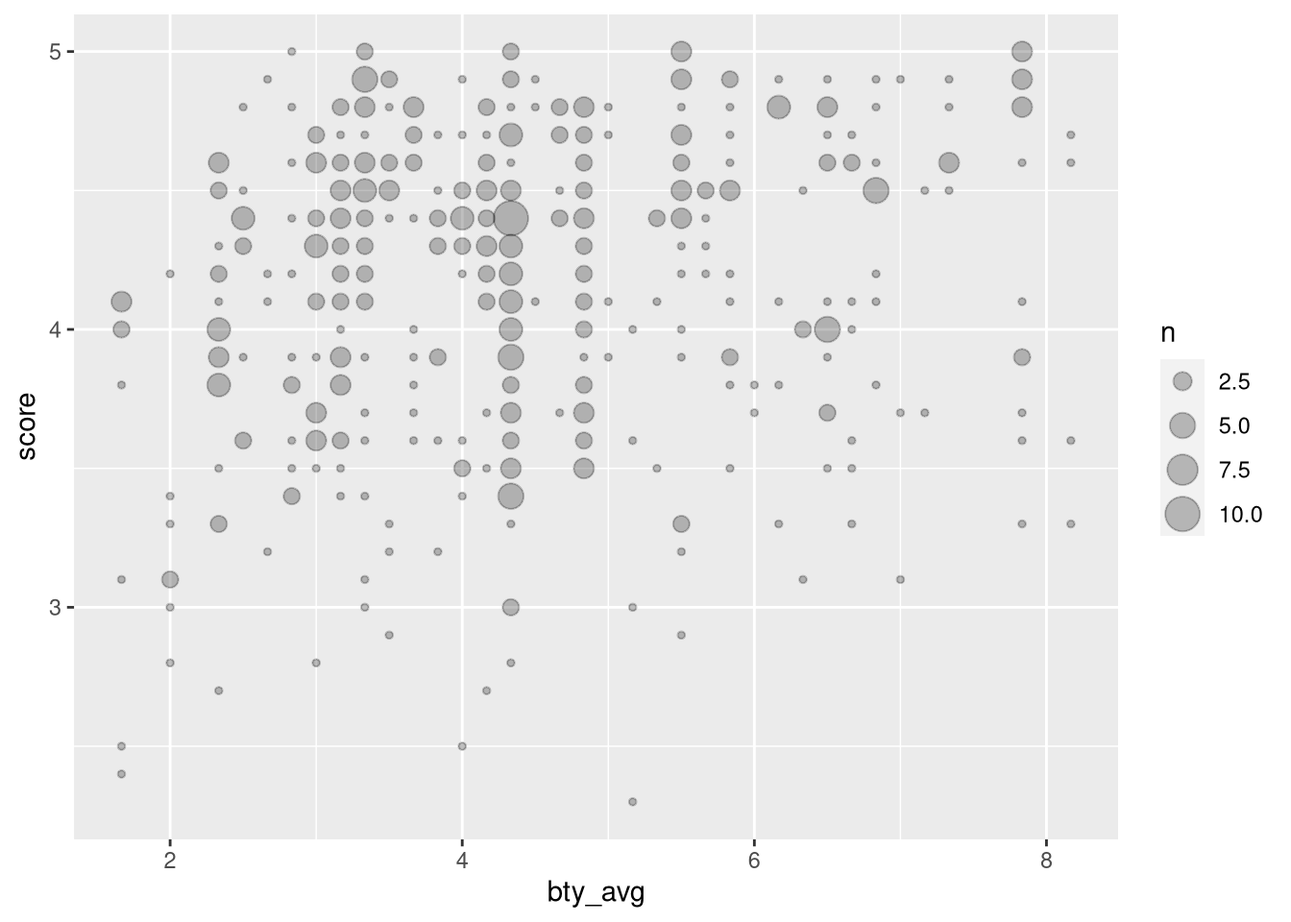
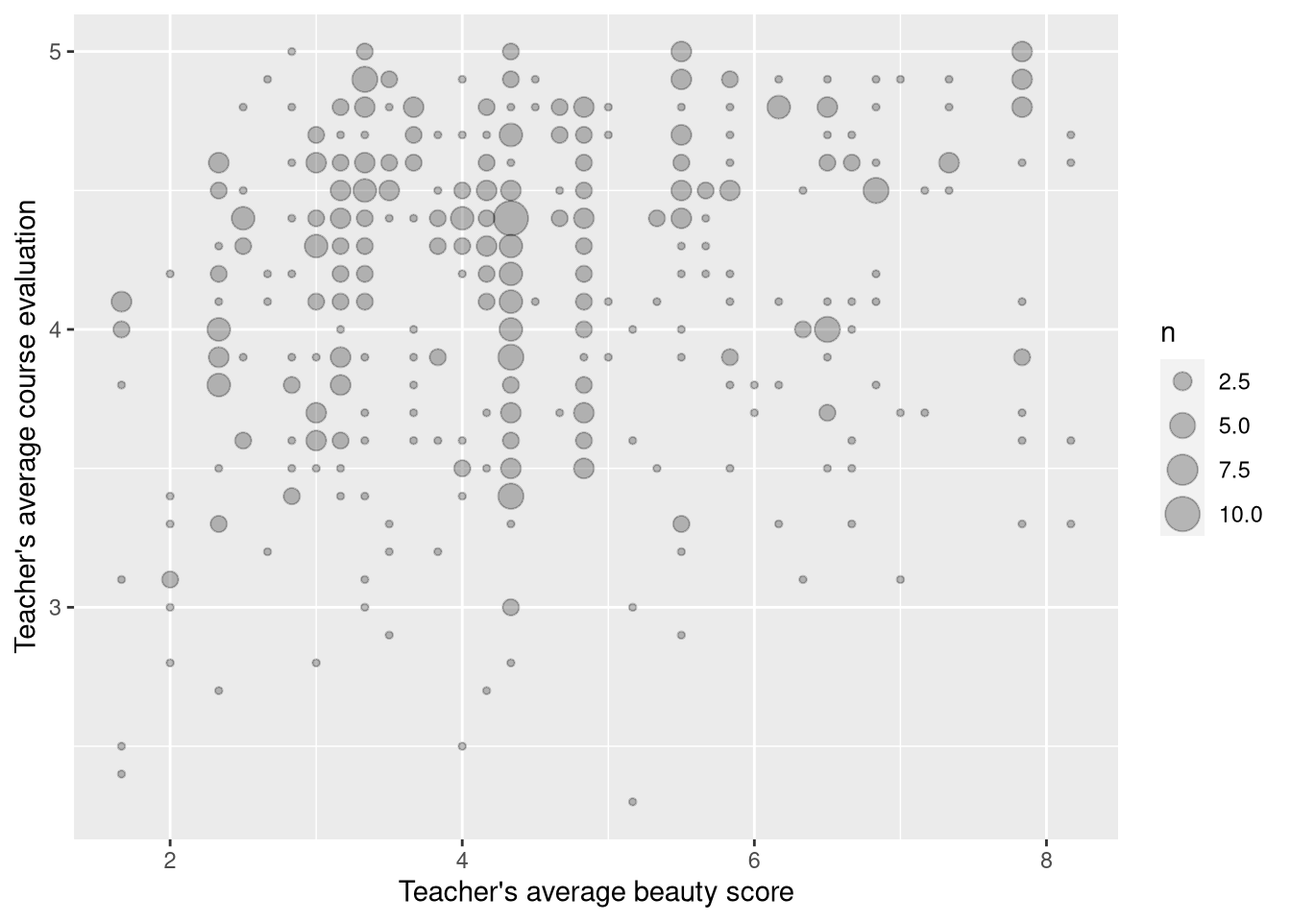
tweaks

Changed region(s): [[0.3125, 0.9375, 0.625, 1.0], [0.0, 0.2188, 0.0312, 0.7188]]

diff --git a/Quarto/Alpha5NG.html b/Quarto/Alpha5NG.html
@@ -6,8 +6,9 @@
 
 <meta name="viewport" content="width=device-width, initial-scale=1.0, user-scalable=yes">
 
+<meta name="author" content="Alan Arnholt">
 
-<title>5NG</title>
+<title>5NG - Five Named Graphs</title>
 <style>
 code{white-space: pre-wrap;}
 span.smallcaps{font-variant: small-caps;}
@@ -81,14 +82,26 @@ pre > code.sourceCode > span > a:first-child::before { text-decoration: underlin
 
 <header id="title-block-header" class="quarto-title-block default">
 <div class="quarto-title">
-<h1 class="title">5NG</h1>
+<h1 class="title">5NG - Five Named Graphs</h1>
 </div>
 
 
 
 <div class="quarto-title-meta">
 
+    <div>
+    <div class="quarto-title-meta-heading">Author</div>
+    <div class="quarto-title-meta-contents">
+             <p>Alan Arnholt </p>
+          </div>
+  </div>
     
+    <div>
+    <div class="quarto-title-meta-heading">Published</div>
+    <div class="quarto-title-meta-contents">
+      <p class="date">Last modified on August 26, 2024 12:39:45 Eastern Daylight Time</p>
+    </div>
+  </div>
   
     
   </div>
@@ -118,9 +131,11 @@ pre > code.sourceCode > span > a:first-child::before { text-decoration: underlin
 <h2 class="anchored" data-anchor-id="create-a-scatterplot-of-score-versus-bty_avg">Create a scatterplot of <code>score</code> versus <code>bty_avg</code></h2>
 <div class="cell">
 <details>
-<summary>Show the code</summary>
-<div class="sourceCode cell-code" id="cb3"><pre class="sourceCode r code-with-copy"><code class="sourceCode r"><span id="cb3-1"><a href="#cb3-1" aria-hidden="true" tabindex="-1"></a><span class="fu">ggplot</span>(<span class="at">data =</span> evals, <span class="fu">aes</span>(<span class="at">x =</span> bty_avg, <span class="at">y =</span> score)) <span class="ot">-&gt;</span> p1</span>
-<span id="cb3-2"><a href="#cb3-2" aria-hidden="true" tabindex="-1"></a>p1 <span class="sc">+</span> <span class="fu">geom_point</span>()</span></code><button title="Copy to Clipboard" class="code-copy-button"><i class="bi"></i></button></pre></div>
+<summary>I can’t wait to see the code</summary>
+<div class="sourceCode cell-code" id="cb3"><pre class="sourceCode r code-with-copy"><code class="sourceCode r"><span id="cb3-1"><a href="#cb3-1" aria-hidden="true" tabindex="-1"></a><span class="fu">ggplot</span>(<span class="at">data =</span> evals, <span class="fu">aes</span>(<span class="at">x =</span> bty_avg, <span class="at">y =</span> score)) <span class="sc">+</span> </span>
+<span id="cb3-2"><a href="#cb3-2" aria-hidden="true" tabindex="-1"></a>  <span class="fu">labs</span>(<span class="at">x =</span> <span class="st">"Teacher's average beauty score"</span>, </span>
+<span id="cb3-3"><a href="#cb3-3" aria-hidden="true" tabindex="-1"></a>       <span class="at">y =</span> <span class="st">"Teacher's average course evaluation"</span>) <span class="ot">-&gt;</span> p1</span>
+<span id="cb3-4"><a href="#cb3-4" aria-hidden="true" tabindex="-1"></a>p1 <span class="sc">+</span><span class="fu">geom_point</span>() </span></code><button title="Copy to Clipboard" class="code-copy-button"><i class="bi"></i></button></pre></div>
 </details>
 <div class="cell-output-display">
 <p><img src="Alpha5NG_files/figure-html/unnamed-chunk-3-1.png" class="img-fluid" width="672"></p>
@@ -185,30 +200,21 @@ pre > code.sourceCode > span > a:first-child::before { text-decoration: underlin
 </div>
 <div class="cell">
 <details>
-<summary>Show the code</summary>
+<summary>Code</summary>
 <div class="sourceCode cell-code" id="cb11"><pre class="sourceCode r code-with-copy"><code class="sourceCode r"><span id="cb11-1"><a href="#cb11-1" aria-hidden="true" tabindex="-1"></a>p1 <span class="sc">+</span> </span>
 <span id="cb11-2"><a href="#cb11-2" aria-hidden="true" tabindex="-1"></a>  <span class="fu">geom_count</span>(<span class="at">alpha =</span> <span class="fl">0.25</span>, <span class="fu">aes</span>(<span class="at">color =</span> gender)) <span class="sc">+</span> </span>
 <span id="cb11-3"><a href="#cb11-3" aria-hidden="true" tabindex="-1"></a>  <span class="fu">scale_size</span>(<span class="at">range =</span> <span class="fu">c</span>(<span class="dv">1</span>, <span class="dv">10</span>)) <span class="sc">+</span></span>
 <span id="cb11-4"><a href="#cb11-4" aria-hidden="true" tabindex="-1"></a>  <span class="fu">geom_smooth</span>(<span class="fu">aes</span>(<span class="at">color =</span> gender), <span class="at">method =</span> <span class="st">"loess"</span>, <span class="at">se =</span> <span class="cn">FALSE</span>) <span class="sc">+</span> </span>
-<span id="cb11-5"><a href="#cb11-5" aria-hidden="true" tabindex="-1"></a>  <span class="fu">labs</span>(<span class="at">color =</span> <span class="st">"Sex"</span>)</span></code><button title="Copy to Clipboard" class="code-copy-button"><i class="bi"></i></button></pre></div>
+<span id="cb11-5"><a href="#cb11-5" aria-hidden="true" tabindex="-1"></a>  <span class="fu">labs</span>(<span class="at">color =</span> <span class="st">"Sex"</span>) <span class="sc">+</span> </span>
+<span id="cb11-6"><a href="#cb11-6" aria-hidden="true" tabindex="-1"></a>  <span class="fu">scale_color_manual</span>(<span class="at">values =</span> <span class="fu">c</span>(<span class="st">"female"</span> <span class="ot">=</span> <span class="st">"pink"</span>, <span class="st">"male"</span> <span class="ot">=</span> <span class="st">"darkblue"</span>)) <span class="sc">+</span> </span>
+<span id="cb11-7"><a href="#cb11-7" aria-hidden="true" tabindex="-1"></a>  <span class="fu">theme_classic</span>()</span></code><button title="Copy to Clipboard" class="code-copy-button"><i class="bi"></i></button></pre></div>
 </details>
-<div class="cell-output cell-output-stderr">
-<pre><code>`geom_smooth()` using formula = 'y ~ x'</code></pre>
-</div>
 <div class="cell-output-display">
 <p><img src="Alpha5NG_files/figure-html/unnamed-chunk-5-1.png" class="img-fluid" width="672"></p>
 </div>
 </div>
-</section>
-<section id="linegraphs-via-geom_line" class="level2">
-<h2 class="anchored" data-anchor-id="linegraphs-via-geom_line">Linegraphs via <code>geom_line()</code></h2>
 <p>Consider the <code>early_january_weather</code> from the <code>moderndive</code> package.</p>
 <div class="cell">
-<details>
-<summary>Show the code that created that awesome table!</summary>
-<div class="sourceCode cell-code" id="cb13"><pre class="sourceCode r code-with-copy"><code class="sourceCode r"><span id="cb13-1"><a href="#cb13-1" aria-hidden="true" tabindex="-1"></a><span class="fu">library</span>(moderndive)</span>
-<span id="cb13-2"><a href="#cb13-2" aria-hidden="true" tabindex="-1"></a>knitr<span class="sc">::</span><span class="fu">kable</span>(<span class="fu">head</span>(early_january_weather))</span></code><button title="Copy to Clipboard" class="code-copy-button"><i class="bi"></i></button></pre></div>
-</details>
 <div class="cell-output-display">
 <table class="table table-sm table-striped small">
 <colgroup>
@@ -354,12 +360,17 @@ pre > code.sourceCode > span > a:first-child::before { text-decoration: underlin
 </table>
 </div>
 </div>
+</section>
+<section id="linegraphs-via-geom_line" class="level2">
+<h2 class="anchored" data-anchor-id="linegraphs-via-geom_line">Linegraphs via <code>geom_line()</code></h2>
 <div class="cell">
 <details>
-<summary>Show the code</summary>
-<div class="sourceCode cell-code" id="cb14"><pre class="sourceCode r code-with-copy"><code class="sourceCode r"><span id="cb14-1"><a href="#cb14-1" aria-hidden="true" tabindex="-1"></a><span class="fu">ggplot</span>(<span class="at">data =</span> early_january_weather, <span class="fu">aes</span>(<span class="at">x =</span> time_hour, <span class="at">y =</span> temp)) <span class="sc">+</span> </span>
-<span id="cb14-2"><a href="#cb14-2" aria-hidden="true" tabindex="-1"></a>  <span class="fu">geom_point</span>(<span class="at">size =</span> <span class="fl">0.2</span>, <span class="at">color =</span> <span class="st">"blue"</span>) <span class="sc">+</span> </span>
-<span id="cb14-3"><a href="#cb14-3" aria-hidden="true" tabindex="-1"></a>  <span class="fu">geom_line</span>(<span class="at">color =</span> <span class="st">"pink"</span>)</span></code><button title="Copy to Clipboard" class="code-copy-button"><i class="bi"></i></button></pre></div>
+<summary>Code</summary>
+<div class="sourceCode cell-code" id="cb12"><pre class="sourceCode r code-with-copy"><code class="sourceCode r"><span id="cb12-1"><a href="#cb12-1" aria-hidden="true" tabindex="-1"></a><span class="fu">ggplot</span>(<span class="at">data =</span> early_january_weather, <span class="fu">aes</span>(<span class="at">x =</span> time_hour, <span class="at">y =</span> temp)) <span class="sc">+</span> </span>
+<span id="cb12-2"><a href="#cb12-2" aria-hidden="true" tabindex="-1"></a>  <span class="fu">geom_point</span>(<span class="at">size =</span> <span class="fl">0.2</span>, <span class="at">color =</span> <span class="st">"blue"</span>) <span class="sc">+</span> </span>
+<span id="cb12-3"><a href="#cb12-3" aria-hidden="true" tabindex="-1"></a>  <span class="fu">geom_line</span>(<span class="at">color =</span> <span class="st">"pink"</span>) <span class="sc">+</span> </span>
+<span id="cb12-4"><a href="#cb12-4" aria-hidden="true" tabindex="-1"></a>  <span class="fu">labs</span>(<span class="at">x =</span> <span class="st">"Date and time"</span>,</span>
+<span id="cb12-5"><a href="#cb12-5" aria-hidden="true" tabindex="-1"></a>       <span class="at">y =</span> <span class="st">"Temperature (in Fahrenheit)"</span>)</span></code><button title="Copy to Clipboard" class="code-copy-button"><i class="bi"></i></button></pre></div>
 </details>
 <div class="cell-output-display">
 <p><img src="Alpha5NG_files/figure-html/unnamed-chunk-7-1.png" class="img-fluid" width="672"></p>
@@ -370,60 +381,50 @@ pre > code.sourceCode > span > a:first-child::before { text-decoration: underlin
 <h2 class="anchored" data-anchor-id="histograms-via-geom_histogram">Histograms via <code>geom_histogram()</code></h2>
 <div class="cell">
 <details>
-<summary>Show the code</summary>
-<div class="sourceCode cell-code" id="cb15"><pre class="sourceCode r code-with-copy"><code class="sourceCode r"><span id="cb15-1"><a href="#cb15-1" aria-hidden="true" tabindex="-1"></a><span class="fu">library</span>(palmerpenguins)</span>
-<span id="cb15-2"><a href="#cb15-2" aria-hidden="true" tabindex="-1"></a>penguins <span class="sc">|&gt;</span> </span>
-<span id="cb15-3"><a href="#cb15-3" aria-hidden="true" tabindex="-1"></a>  <span class="fu">ggplot</span>(<span class="fu">aes</span>(<span class="at">x =</span> bill_length_mm)) <span class="sc">+</span> </span>
-<span id="cb15-4"><a href="#cb15-4" aria-hidden="true" tabindex="-1"></a>  <span class="fu">geom_histogram</span>()</span></code><button title="Copy to Clipboard" class="code-copy-button"><i class="bi"></i></button></pre></div>
+<summary>Code</summary>
+<div class="sourceCode cell-code" id="cb13"><pre class="sourceCode r code-with-copy"><code class="sourceCode r"><span id="cb13-1"><a href="#cb13-1" aria-hidden="true" tabindex="-1"></a><span class="fu">library</span>(palmerpenguins)</span>
+<span id="cb13-2"><a href="#cb13-2" aria-hidden="true" tabindex="-1"></a>penguins <span class="sc">|&gt;</span> </span>
+<span id="cb13-3"><a href="#cb13-3" aria-hidden="true" tabindex="-1"></a>  <span class="fu">ggplot</span>(<span class="fu">aes</span>(<span class="at">x =</span> bill_length_mm)) <span class="sc">+</span> </span>
+<span id="cb13-4"><a href="#cb13-4" aria-hidden="true" tabindex="-1"></a>  <span class="fu">geom_histogram</span>() <span class="sc">+</span> </span>
+<span id="cb13-5"><a href="#cb13-5" aria-hidden="true" tabindex="-1"></a>  <span class="fu">labs</span>(<span class="at">x =</span> <span class="st">"Penguin bill length (in mm)"</span>)</span></code><button title="Copy to Clipboard" class="code-copy-button"><i class="bi"></i></button></pre></div>
 </details>
-<div class="cell-output cell-output-stderr">
-<pre><code>`stat_bin()` using `bins = 30`. Pick better value with `binwidth`.</code></pre>
-</div>
-<div class="cell-output cell-output-stderr">
-<pre><code>Warning: Removed 2 rows containing non-finite values (`stat_bin()`).</code></pre>
-</div>
 <div class="cell-output-display">
 <p><img src="Alpha5NG_files/figure-html/unnamed-chunk-8-1.png" class="img-fluid" width="672"></p>
 </div>
 </div>
 <div class="cell">
 <details>
-<summary>Show the code</summary>
-<div class="sourceCode cell-code" id="cb18"><pre class="sourceCode r code-with-copy"><code class="sourceCode r"><span id="cb18-1"><a href="#cb18-1" aria-hidden="true" tabindex="-1"></a>penguins <span class="sc">|&gt;</span> </span>
-<span id="cb18-2"><a href="#cb18-2" aria-hidden="true" tabindex="-1"></a>  <span class="fu">ggplot</span>(<span class="fu">aes</span>(<span class="at">x =</span> bill_length_mm)) <span class="sc">+</span> </span>
-<span id="cb18-3"><a href="#cb18-3" aria-hidden="true" tabindex="-1"></a>  <span class="fu">geom_histogram</span>(<span class="at">binwidth =</span> <span class="dv">3</span>, <span class="at">color =</span> <span class="st">"black"</span>, <span class="at">fill =</span> <span class="st">"lightblue"</span>)</span></code><button title="Copy to Clipboard" class="code-copy-button"><i class="bi"></i></button></pre></div>
+<summary>Code</summary>
+<div class="sourceCode cell-code" id="cb14"><pre class="sourceCode r code-with-copy"><code class="sourceCode r"><span id="cb14-1"><a href="#cb14-1" aria-hidden="true" tabindex="-1"></a>penguins <span class="sc">|&gt;</span> </span>
+<span id="cb14-2"><a href="#cb14-2" aria-hidden="true" tabindex="-1"></a>  <span class="fu">ggplot</span>(<span class="fu">aes</span>(<span class="at">x =</span> bill_length_mm)) <span class="sc">+</span> </span>
+<span id="cb14-3"><a href="#cb14-3" aria-hidden="true" tabindex="-1"></a>  <span class="fu">geom_histogram</span>(<span class="at">binwidth =</span> <span class="dv">3</span>, <span class="at">color =</span> <span class="st">"black"</span>, <span class="at">fill =</span> <span class="st">"lightblue"</span>) <span class="sc">+</span> </span>
+<span id="cb14-4"><a href="#cb14-4" aria-hidden="true" tabindex="-1"></a>  <span class="fu">labs</span>(<span class="at">x =</span> <span class="st">"Penguin bill length (in mm)"</span>)</span></code><button title="Copy to Clipboard" class="code-copy-button"><i class="bi"></i></button></pre></div>
 </details>
-<div class="cell-output cell-output-stderr">
-<pre><code>Warning: Removed 2 rows containing non-finite values (`stat_bin()`).</code></pre>
-</div>
 <div class="cell-output-display">
 <p><img src="Alpha5NG_files/figure-html/unnamed-chunk-9-1.png" class="img-fluid" width="672"></p>
 </div>
 <details>
-<summary>Show the code</summary>
-<div class="sourceCode cell-code" id="cb20"><pre class="sourceCode r code-with-copy"><code class="sourceCode r"><span id="cb20-1"><a href="#cb20-1" aria-hidden="true" tabindex="-1"></a>penguins <span class="sc">|&gt;</span> </span>
-<span id="cb20-2"><a href="#cb20-2" aria-hidden="true" tabindex="-1"></a>  <span class="fu">ggplot</span>(<span class="fu">aes</span>(<span class="at">x =</span> bill_length_mm, <span class="at">fill =</span> species)) <span class="sc">+</span> </span>
-<span id="cb20-3"><a href="#cb20-3" aria-hidden="true" tabindex="-1"></a>  <span class="fu">geom_histogram</span>(<span class="at">binwidth =</span> <span class="dv">3</span>)</span></code><button title="Copy to Clipboard" class="code-copy-button"><i class="bi"></i></button></pre></div>
+<summary>Code</summary>
+<div class="sourceCode cell-code" id="cb15"><pre class="sourceCode r code-with-copy"><code class="sourceCode r"><span id="cb15-1"><a href="#cb15-1" aria-hidden="true" tabindex="-1"></a>penguins <span class="sc">|&gt;</span> </span>
+<span id="cb15-2"><a href="#cb15-2" aria-hidden="true" tabindex="-1"></a>  <span class="fu">ggplot</span>(<span class="fu">aes</span>(<span class="at">x =</span> bill_length_mm, <span class="at">fill =</span> species)) <span class="sc">+</span> </span>
+<span id="cb15-3"><a href="#cb15-3" aria-hidden="true" tabindex="-1"></a>  <span class="fu">geom_histogram</span>(<span class="at">binwidth =</span> <span class="dv">3</span>) <span class="sc">+</span></span>
+<span id="cb15-4"><a href="#cb15-4" aria-hidden="true" tabindex="-1"></a>  <span class="fu">labs</span>(<span class="at">x =</span> <span class="st">"Penguin bill length (in mm)"</span>)</span></code><button title="Copy to Clipboard" class="code-copy-button"><i class="bi"></i></button></pre></div>
 </details>
-<div class="cell-output cell-output-stderr">
-<pre><code>Warning: Removed 2 rows containing non-finite values (`stat_bin()`).</code></pre>
-</div>
 <div class="cell-output-display">
 <p><img src="Alpha5NG_files/figure-html/unnamed-chunk-9-2.png" class="img-fluid" width="672"></p>
 </div>
 </div>
 <div class="cell">
 <details>
-<summary>Show the code</summary>
-<div class="sourceCode cell-code" id="cb22"><pre class="sourceCode r code-with-copy"><code class="sourceCode r"><span id="cb22-1"><a href="#cb22-1" aria-hidden="true" tabindex="-1"></a>penguins <span class="sc">|&gt;</span> </span>
-<span id="cb22-2"><a href="#cb22-2" aria-hidden="true" tabindex="-1"></a>  <span class="fu">ggplot</span>(<span class="fu">aes</span>(<span class="at">x =</span> bill_length_mm, <span class="at">fill =</span> species)) <span class="sc">+</span> </span>
-<span id="cb22-3"><a href="#cb22-3" aria-hidden="true" tabindex="-1"></a>  <span class="fu">geom_histogram</span>(<span class="at">binwidth =</span> <span class="dv">3</span>, <span class="at">color =</span> <span class="st">"black"</span>) <span class="sc">+</span></span>
-<span id="cb22-4"><a href="#cb22-4" aria-hidden="true" tabindex="-1"></a>  <span class="fu">facet_wrap</span>(<span class="fu">vars</span>(species), <span class="at">ncol =</span> <span class="dv">1</span>) <span class="sc">+</span> </span>
-<span id="cb22-5"><a href="#cb22-5" aria-hidden="true" tabindex="-1"></a>  <span class="fu">theme_bw</span>()</span></code><button title="Copy to Clipboard" class="code-copy-button"><i class="bi"></i></button></pre></div>
+<summary>Code</summary>
+<div class="sourceCode cell-code" id="cb16"><pre class="sourceCode r code-with-copy"><code class="sourceCode r"><span id="cb16-1"><a href="#cb16-1" aria-hidden="true" tabindex="-1"></a>penguins <span class="sc">|&gt;</span> </span>
+<span id="cb16-2"><a href="#cb16-2" aria-hidden="true" tabindex="-1"></a>  <span class="fu">ggplot</span>(<span class="fu">aes</span>(<span class="at">x =</span> bill_length_mm, <span class="at">fill =</span> species)) <span class="sc">+</span> </span>
+<span id="cb16-3"><a href="#cb16-3" aria-hidden="true" tabindex="-1"></a>  <span class="fu">geom_histogram</span>(<span class="at">binwidth =</span> <span class="dv">3</span>, <span class="at">color =</span> <span class="st">"black"</span>) <span class="sc">+</span></span>
+<span id="cb16-4"><a href="#cb16-4" aria-hidden="true" tabindex="-1"></a>  <span class="fu">facet_wrap</span>(<span class="fu">vars</span>(species), <span class="at">ncol =</span> <span class="dv">1</span>) <span class="sc">+</span> </span>
+<span id="cb16-5"><a href="#cb16-5" aria-hidden="true" tabindex="-1"></a>  <span class="fu">theme_bw</span>() <span class="sc">+</span> </span>
+<span id="cb16-6"><a href="#cb16-6" aria-hidden="true" tabindex="-1"></a>  <span class="fu">labs</span>(<span class="at">x =</span> <span class="st">"Penguin bill length (in mm)"</span>,</span>
+<span id="cb16-7"><a href="#cb16-7" aria-hidden="true" tabindex="-1"></a>       <span class="at">fill =</span> <span class="st">"Species"</span>)</span></code><button title="Copy to Clipboard" class="code-copy-button"><i class="bi"></i></button></pre></div>
 </details>
-<div class="cell-output cell-output-stderr">
-<pre><code>Warning: Removed 2 rows containing non-finite values (`stat_bin()`).</code></pre>
-</div>
 <div class="cell-output-display">
 <p><img src="Alpha5NG_files/figure-html/unnamed-chunk-10-1.png" class="img-fluid" width="672"></p>
 </div>
@@ -433,28 +434,25 @@ pre > code.sourceCode > span > a:first-child::before { text-decoration: underlin
 <h2 class="anchored" data-anchor-id="boxplots-via-geom_boxplot">Boxplots via <code>geom_boxplot()</code></h2>
 <div class="cell">
 <details>
-<summary>Show the code</summary>
-<div class="sourceCode cell-code" id="cb24"><pre class="sourceCode r code-with-copy"><code class="sourceCode r"><span id="cb24-1"><a href="#cb24-1" aria-hidden="true" tabindex="-1"></a>penguins <span class="sc">|&gt;</span> </span>
-<span id="cb24-2"><a href="#cb24-2" aria-hidden="true" tabindex="-1"></a>  <span class="fu">ggplot</span>(<span class="fu">aes</span>(<span class="at">x =</span> species, <span class="at">y =</span> bill_length_mm, <span class="at">fill =</span> species)) <span class="sc">+</span> </span>
-<span id="cb24-3"><a href="#cb24-3" aria-hidden="true" tabindex="-1"></a>  <span class="fu">geom_boxplot</span>()</span></code><button title="Copy to Clipboard" class="code-copy-button"><i class="bi"></i></button></pre></div>
+<summary>Code</summary>
+<div class="sourceCode cell-code" id="cb17"><pre class="sourceCode r code-with-copy"><code class="sourceCode r"><span id="cb17-1"><a href="#cb17-1" aria-hidden="true" tabindex="-1"></a>penguins <span class="sc">|&gt;</span> </span>
+<span id="cb17-2"><a href="#cb17-2" aria-hidden="true" tabindex="-1"></a>  <span class="fu">ggplot</span>(<span class="fu">aes</span>(<span class="at">x =</span> species, <span class="at">y =</span> bill_length_mm, <span class="at">fill =</span> species)) <span class="sc">+</span> </span>
+<span id="cb17-3"><a href="#cb17-3" aria-hidden="true" tabindex="-1"></a>  <span class="fu">geom_boxplot</span>() <span class="sc">+</span> </span>
+<span id="cb17-4"><a href="#cb17-4" aria-hidden="true" tabindex="-1"></a>  <span class="fu">labs</span>(<span class="at">y =</span> <span class="st">"Penguin bill length (in mm)"</span>)</span></code><button title="Copy to Clipboard" class="code-copy-button"><i class="bi"></i></button></pre></div>
 </details>
-<div class="cell-output cell-output-stderr">
-<pre><code>Warning: Removed 2 rows containing non-finite values (`stat_boxplot()`).</code></pre>
-</div>
 <div class="cell-output-display">
 <p><img src="Alpha5NG_files/figure-html/unnamed-chunk-11-1.png" class="img-fluid" width="672"></p>
 </div>
 <details>
-<summary>Show the code</summary>
-<div class="sourceCode cell-code" id="cb26"><pre class="sourceCode r code-with-copy"><code class="sourceCode r"><span id="cb26-1"><a href="#cb26-1" aria-hidden="true" tabindex="-1"></a><span class="co"># Note that the legend is not needed</span></span>
-<span id="cb26-2"><a href="#cb26-2" aria-hidden="true" tabindex="-1"></a>penguins <span class="sc">|&gt;</span> </span>
-<span id="cb26-3"><a href="#cb26-3" aria-hidden="true" tabindex="-1"></a>  <span class="fu">ggplot</span>(<span class="fu">aes</span>(<span class="at">x =</span> species, <span class="at">y =</span> bill_length_mm, <span class="at">fill =</span> species)) <span class="sc">+</span> </span>
-<span id="cb26-4"><a href="#cb26-4" aria-hidden="true" tabindex="-1"></a>  <span class="fu">geom_boxplot</span>() <span class="sc">+</span> </span>
-<span id="cb26-5"><a href="#cb26-5" aria-hidden="true" tabindex="-1"></a>  <span class="fu">guides</span>(<span class="at">fill =</span> <span class="st">"none"</span>)</span></code><button title="Copy to Clipboard" class="code-copy-button"><i class="bi"></i></button></pre></div>
+<summary>Code</summary>
+<div class="sourceCode cell-code" id="cb18"><pre class="sourceCode r code-with-copy"><code class="sourceCode r"><span id="cb18-1"><a href="#cb18-1" aria-hidden="true" tabindex="-1"></a><span class="co"># Note that the legend is not needed</span></span>
+<span id="cb18-2"><a href="#cb18-2" aria-hidden="true" tabindex="-1"></a>penguins <span class="sc">|&gt;</span> </span>
+<span id="cb18-3"><a href="#cb18-3" aria-hidden="true" tabindex="-1"></a>  <span class="fu">ggplot</span>(<span class="fu">aes</span>(<span class="at">x =</span> species, <span class="at">y =</span> bill_length_mm, <span class="at">fill =</span> species)) <span class="sc">+</span> </span>
+<span id="cb18-4"><a href="#cb18-4" aria-hidden="true" tabindex="-1"></a>  <span class="fu">geom_boxplot</span>() <span class="sc">+</span> </span>
+<span id="cb18-5"><a href="#cb18-5" aria-hidden="true" tabindex="-1"></a>  <span class="fu">guides</span>(<span class="at">fill =</span> <span class="st">"none"</span>) <span class="sc">+</span> </span>
+<span id="cb18-6"><a href="#cb18-6" aria-hidden="true" tabindex="-1"></a>  <span class="fu">labs</span>(<span class="at">y =</span> <span class="st">"Penguin bill length (in mm)"</span>,</span>
+<span id="cb18-7"><a href="#cb18-7" aria-hidden="true" tabindex="-1"></a>       <span class="at">x =</span> <span class="st">""</span>)</span></code><button title="Copy to Clipboard" class="code-copy-button"><i class="bi"></i></button></pre></div>
 </details>
-<div class="cell-output cell-output-stderr">
-<pre><code>Warning: Removed 2 rows containing non-finite values (`stat_boxplot()`).</code></pre>
-</div>
 <div class="cell-output-display">
 <p><img src="Alpha5NG_files/figure-html/unnamed-chunk-11-2.png" class="img-fluid" width="672"></p>
 </div>
@@ -467,21 +465,23 @@ pre > code.sourceCode > span > a:first-child::before { text-decoration: underlin
 </ul>
 <div class="cell">
 <details>
-<summary>Show the code</summary>
-<div class="sourceCode cell-code" id="cb28"><pre class="sourceCode r code-with-copy"><code class="sourceCode r"><span id="cb28-1"><a href="#cb28-1" aria-hidden="true" tabindex="-1"></a>penguins <span class="sc">|&gt;</span> </span>
-<span id="cb28-2"><a href="#cb28-2" aria-hidden="true" tabindex="-1"></a>  <span class="fu">ggplot</span>(<span class="fu">aes</span>(<span class="at">x =</span> species)) <span class="sc">+</span></span>
-<span id="cb28-3"><a href="#cb28-3" aria-hidden="true" tabindex="-1"></a>  <span class="fu">geom_bar</span>()</span></code><button title="Copy to Clipboard" class="code-copy-button"><i class="bi"></i></button></pre></div>
+<summary>Code</summary>
+<div class="sourceCode cell-code" id="cb19"><pre class="sourceCode r code-with-copy"><code class="sourceCode r"><span id="cb19-1"><a href="#cb19-1" aria-hidden="true" tabindex="-1"></a>penguins <span class="sc">|&gt;</span> </span>
+<span id="cb19-2"><a href="#cb19-2" aria-hidden="true" tabindex="-1"></a>  <span class="fu">ggplot</span>(<span class="fu">aes</span>(<span class="at">x =</span> species)) <span class="sc">+</span></span>
+<span id="cb19-3"><a href="#cb19-3" aria-hidden="true" tabindex="-1"></a>  <span class="fu">geom_bar</span>() <span class="sc">+</span> </span>
+<span id="cb19-4"><a href="#cb19-4" aria-hidden="true" tabindex="-1"></a>  <span class="fu">labs</span>(<span class="at">x =</span> <span class="st">""</span>)</span></code><button title="Copy to Clipboard" class="code-copy-button"><i class="bi"></i></button></pre></div>
 </details>
 <div class="cell-output-display">
 <p><img src="Alpha5NG_files/figure-html/unnamed-chunk-12-1.png" class="img-fluid" width="672"></p>
 </div>
 <details>
-<summary>Show the code</summary>
-<div class="sourceCode cell-code" id="cb29"><pre class="sourceCode r code-with-copy"><code class="sourceCode r"><span id="cb29-1"><a href="#cb29-1" aria-hidden="true" tabindex="-1"></a><span class="co">#</span></span>
-<span id="cb29-2"><a href="#cb29-2" aria-hidden="true" tabindex="-1"></a>penguins <span class="sc">|&gt;</span> </span>
-<span id="cb29-3"><a href="#cb29-3" aria-hidden="true" tabindex="-1"></a>  <span class="fu">ggplot</span>(<span class="fu">aes</span>(<span class="at">x =</span> species, <span class="at">fill =</span> species)) <span class="sc">+</span></span>
-<span id="cb29-4"><a href="#cb29-4" aria-hidden="true" tabindex="-1"></a>  <span class="fu">geom_bar</span>() <span class="sc">+</span> </span>
-<span id="cb29-5"><a href="#cb29-5" aria-hidden="true" tabindex="-1"></a>  <span class="fu">guides</span>(<span class="at">fill =</span> <span class="st">"none"</span>)</span></code><button title="Copy to Clipboard" class="code-copy-button"><i class="bi"></i></button></pre></div>
+<summary>Code</summary>
+<div class="sourceCode cell-code" id="cb20"><pre class="sourceCode r code-with-copy"><code class="sourceCode r"><span id="cb20-1"><a href="#cb20-1" aria-hidden="true" tabindex="-1"></a><span class="co">#</span></span>
+<span id="cb20-2"><a href="#cb20-2" aria-hidden="true" tabindex="-1"></a>penguins <span class="sc">|&gt;</span> </span>
+<span id="cb20-3"><a href="#cb20-3" aria-hidden="true" tabindex="-1"></a>  <span class="fu">ggplot</span>(<span class="fu">aes</span>(<span class="at">x =</span> species, <span class="at">fill =</span> species)) <span class="sc">+</span></span>
+<span id="cb20-4"><a href="#cb20-4" aria-hidden="true" tabindex="-1"></a>  <span class="fu">geom_bar</span>() <span class="sc">+</span> </span>
+<span id="cb20-5"><a href="#cb20-5" aria-hidden="true" tabindex="-1"></a>  <span class="fu">guides</span>(<span class="at">fill =</span> <span class="st">"none"</span>) <span class="sc">+</span> </span>
+<span id="cb20-6"><a href="#cb20-6" aria-hidden="true" tabindex="-1"></a>  <span class="fu">labs</span>(<span class="at">x =</span> <span class="st">""</span>)</span></code><button title="Copy to Clipboard" class="code-copy-button"><i class="bi"></i></button></pre></div>
 </details>
 <div class="cell-output-display">
 <p><img src="Alpha5NG_files/figure-html/unnamed-chunk-12-2.png" class="img-fluid" width="672"></p>
